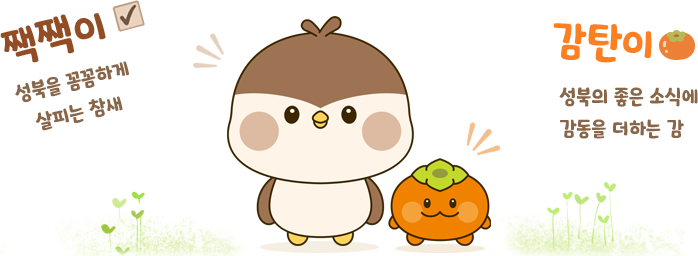
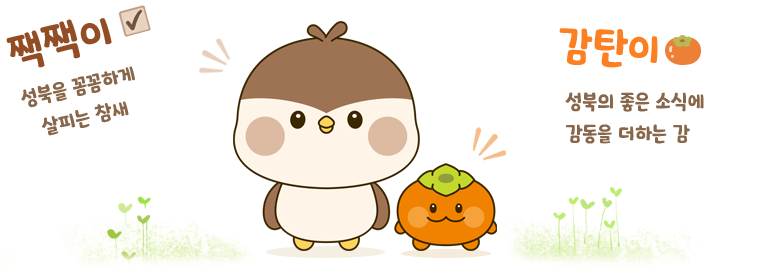
성북구 이미지 원본 그대로 사용, 공공누리 제4유형 출처 표기 추가
Claude-Session: https://claude.ai/code/session_01TpWC2y8khZKUJDmbh3NNs2

diff --git a/public/about.html b/public/about.html
@@ -29,7 +29,6 @@
         <h1>서비스 소개와 정책 근거</h1>
         <p>왜 만들었고, 무엇을 하며, 기존 민원 창구와 무엇이 다른지 한 장으로 설명합니다.</p>
       </div>
-      <img class="page-head__img" src="/assets/img/mascot-headset.png" alt="">
     </div>
 
     <nav class="toc card" aria-label="이 화면의 차례">
@@ -38,6 +37,7 @@
     </nav>
 
     <section class="card card--accent" aria-labelledby="sum-t">
+      <figure class="mascot-fig mascot-fig--right"><img src="/assets/img/mascot-headset.webp" alt="헤드셋을 쓴 쨕쨕이와 감탄이" width="150" height="150" loading="lazy"></figure>
       <h2 id="sum-t">한 줄 요약</h2>
       <p class="lead">AI가 글 민원의 거친 표현을 <b>표시하고 제안만</b> 하고, <b>접수는 항상 되며</b>, 최종 판단은 <b>담당 공무원</b>이 합니다.</p>
       <ul class="trio">
@@ -180,7 +180,8 @@
   <footer class="site-foot">
     <div class="site-foot__inner">
       <img src="/assets/img/slogan.png" alt="성북의 미래 현장에서 답을 찾다">
-      <p>성북 안심 민원 필터 시제품 · 쨕쨕이와 감탄이가 함께합니다.</p>
+      <p>성북 안심 민원 필터 시제품 · 대학 과제용(비영리)</p>
+      <p class="site-foot__credit">이미지 출처: 서울특별시 성북구(로고·슬로건·캐릭터 쨕쨕이와 감탄이). <a href="https://www.kogl.or.kr/info/licenseType4.do" target="_blank" rel="noopener">공공누리 제4유형</a>(출처표시 + 상업적 이용금지 + 변경금지)에 따라 원본 그대로 이용합니다. 캐릭터·로고의 권리는 성북구에 있으며, 이 시제품은 성북구의 공식 서비스가 아닙니다.</p>
     </div>
   </footer>
 </body>

diff --git a/public/status.html b/public/status.html
@@ -29,7 +29,6 @@
         <h1>처리 상태 보기</h1>
         <p>접수할 때 받은 접수번호로 처리 상태를 확인합니다.</p>
       </div>
-      <img class="page-head__img" src="/assets/img/mascot-wave.png" alt="손을 흔드는 쨕쨕이와 감탄이">
     </div>
 
     <section class="card card--accent">
@@ -43,6 +42,8 @@
         <button class="btn btn--brand" type="submit">조회</button>
       </form>
     </section>
+
+    <figure class="mascot-fig"><img src="/assets/img/mascot-wave.webp" alt="손을 흔드는 쨕쨕이와 감탄이" width="160" height="160" loading="lazy"></figure>
 
     <section class="card" id="recent" aria-labelledby="recent-t" hidden>
       <h2 id="recent-t">이 브라우저에서 접수한 민원</h2>
@@ -60,7 +61,8 @@
   <footer class="site-foot">
     <div class="site-foot__inner">
       <img src="/assets/img/slogan.png" alt="성북의 미래 현장에서 답을 찾다">
-      <p>성북 안심 민원 필터 시제품 · 쨕쨕이와 감탄이가 함께합니다.</p>
+      <p>성북 안심 민원 필터 시제품 · 대학 과제용(비영리)</p>
+      <p class="site-foot__credit">이미지 출처: 서울특별시 성북구(로고·슬로건·캐릭터 쨕쨕이와 감탄이). <a href="https://www.kogl.or.kr/info/licenseType4.do" target="_blank" rel="noopener">공공누리 제4유형</a>(출처표시 + 상업적 이용금지 + 변경금지)에 따라 원본 그대로 이용합니다. 캐릭터·로고의 권리는 성북구에 있으며, 이 시제품은 성북구의 공식 서비스가 아닙니다.</p>
     </div>
   </footer>
 </body>

diff --git a/public/assets/app.css b/public/assets/app.css
@@ -38,7 +38,7 @@ button, input, select, textarea { font: inherit; color: inherit; }
 /* 하단 로고 띠 */
 .site-foot { background: #fff; border-top: 4px solid var(--lime-500); padding: var(--x6) var(--x4); }
 .site-foot__inner { max-width: 1040px; margin: 0 auto; display: flex; align-items: center; gap: var(--x6); flex-wrap: wrap; }
-.site-foot__inner img { height: 64px; width: auto; }
+.site-foot__inner img { height: 64px; width: auto; flex: none; }
 .site-foot__inner p { margin: 0; font: var(--t3); color: var(--fg-neutral-subtle); }
 .card { background: var(--bg-layer-default); border-radius: var(--r4); padding: var(--x5); }
 .card + .card { margin-top: var(--x3); }
@@ -163,3 +163,12 @@ html[data-font="xl"] body { zoom: 1.25; }
 @media (max-width: 767px) { .nav { order: 3; } .fsz { margin-left: auto; } }
 .nav a { white-space: nowrap; }
 @media (max-width: 767px) { .side-mascot { display: none; } .nav { flex-wrap: nowrap; } }
+
+/* 성북구 이미지는 원본을 자르거나 늘리지 않고, 비율을 지킨 채 크기만 맞춘다(공공누리 제4유형·변경금지) */
+.brand__logo, .site-foot__inner img, .side-mascot, .mascot-fig img { object-fit: contain; }
+.site-foot__inner { align-items: flex-start; }
+.site-foot__inner > div, .site-foot__inner p { flex: 1 1 280px; }
+.site-foot__credit { font: var(--t2) !important; line-height: 1.6; }
+.mascot-fig { margin: 0 0 var(--x3); text-align: center; }
+.mascot-fig img { width: 160px; height: auto; }
+.mascot-fig--right { float: right; margin: 0 0 var(--x2) var(--x4); }

diff --git a/public/index.html b/public/index.html
@@ -29,7 +29,6 @@
         <h1>구청장에게 바란다</h1>
         <p>성북구청에 바라는 점이나 불편한 점을 적어 주세요. <span id="period-line"></span></p>
       </div>
-      <img class="page-head__img" src="/assets/img/mascot-headset.png" alt="헤드셋을 쓴 쨕쨕이와 감탄이">
     </div>
 
     <div class="citizen__grid">
@@ -156,7 +155,8 @@
   <footer class="site-foot">
     <div class="site-foot__inner">
       <img src="/assets/img/slogan.png" alt="성북의 미래 현장에서 답을 찾다">
-      <p>성북 안심 민원 필터 시제품 · 쨕쨕이와 감탄이가 함께합니다.</p>
+      <p>성북 안심 민원 필터 시제품 · 대학 과제용(비영리)</p>
+      <p class="site-foot__credit">이미지 출처: 서울특별시 성북구(로고·슬로건·캐릭터 쨕쨕이와 감탄이). <a href="https://www.kogl.or.kr/info/licenseType4.do" target="_blank" rel="noopener">공공누리 제4유형</a>(출처표시 + 상업적 이용금지 + 변경금지)에 따라 원본 그대로 이용합니다. 캐릭터·로고의 권리는 성북구에 있으며, 이 시제품은 성북구의 공식 서비스가 아닙니다.</p>
     </div>
   </footer>
 </body>

diff --git a/public/admin.html b/public/admin.html
@@ -117,7 +117,8 @@
   <footer class="site-foot">
     <div class="site-foot__inner">
       <img src="/assets/img/slogan.png" alt="성북의 미래 현장에서 답을 찾다">
-      <p>성북 안심 민원 필터 시제품 · 쨕쨕이와 감탄이가 함께합니다.</p>
+      <p>성북 안심 민원 필터 시제품 · 대학 과제용(비영리)</p>
+      <p class="site-foot__credit">이미지 출처: 서울특별시 성북구(로고·슬로건·캐릭터 쨕쨕이와 감탄이). <a href="https://www.kogl.or.kr/info/licenseType4.do" target="_blank" rel="noopener">공공누리 제4유형</a>(출처표시 + 상업적 이용금지 + 변경금지)에 따라 원본 그대로 이용합니다. 캐릭터·로고의 권리는 성북구에 있으며, 이 시제품은 성북구의 공식 서비스가 아닙니다.</p>
     </div>
   </footer>
 </body>

diff --git a/public/officer.html b/public/officer.html
@@ -66,7 +66,8 @@
   <footer class="site-foot">
     <div class="site-foot__inner">
       <img src="/assets/img/slogan.png" alt="성북의 미래 현장에서 답을 찾다">
-      <p>성북 안심 민원 필터 시제품 · 쨕쨕이와 감탄이가 함께합니다.</p>
+      <p>성북 안심 민원 필터 시제품 · 대학 과제용(비영리)</p>
+      <p class="site-foot__credit">이미지 출처: 서울특별시 성북구(로고·슬로건·캐릭터 쨕쨕이와 감탄이). <a href="https://www.kogl.or.kr/info/licenseType4.do" target="_blank" rel="noopener">공공누리 제4유형</a>(출처표시 + 상업적 이용금지 + 변경금지)에 따라 원본 그대로 이용합니다. 캐릭터·로고의 권리는 성북구에 있으며, 이 시제품은 성북구의 공식 서비스가 아닙니다.</p>
     </div>
   </footer>
 </body>
